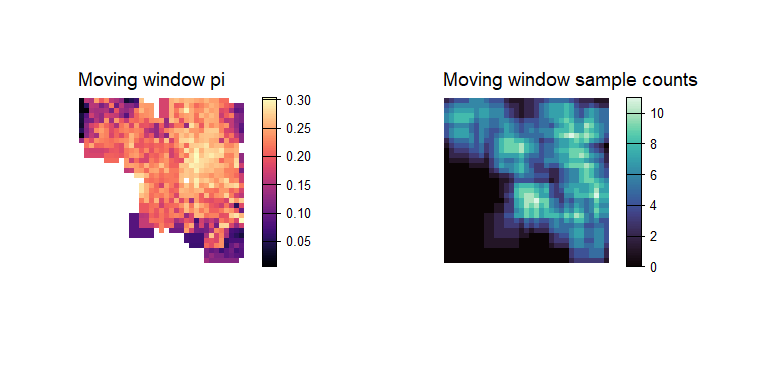
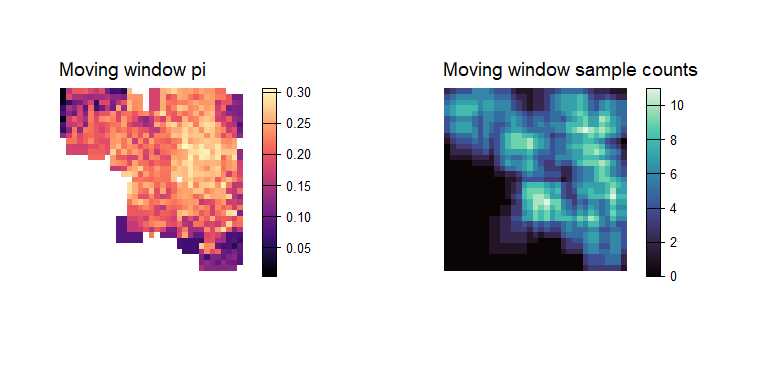
update README

diff --git a/README.md b/README.md
@@ -62,7 +62,7 @@ wgd <- window_gd(lotr_vcf,
 )
 
 # Use plot_gd() to plot the genetic diversity layer and plot_count() to plot the sample counts layer
-par(mfrow = c(1, 2), oma = rep(1, 4), mar = rep(2, 4), pty = "s")
+par(mfrow = c(1, 2), oma = rep(0, 4), mar = rep(0, 4), pty = "s")
 plot_gd(wgd, main = "Moving window pi", legend.width = 1.5)
 plot_count(wgd, main = "Moving window sample counts", legend.width = 1.5)
 ```
@@ -88,7 +88,7 @@ mgd <- mask_gd(kgd, lotr_range)
 
 ``` r
 # Plot results
-par(mfrow = c(1, 2), oma = rep(1, 4), mar = rep(2, 4), pty = "s")
+par(mfrow = c(1, 2), oma = rep(0, 4), mar = rep(0, 4), pty = "s")
 
 plot_gd(kgd, main = "Kriged pi", legend.width = 1.5)
 
